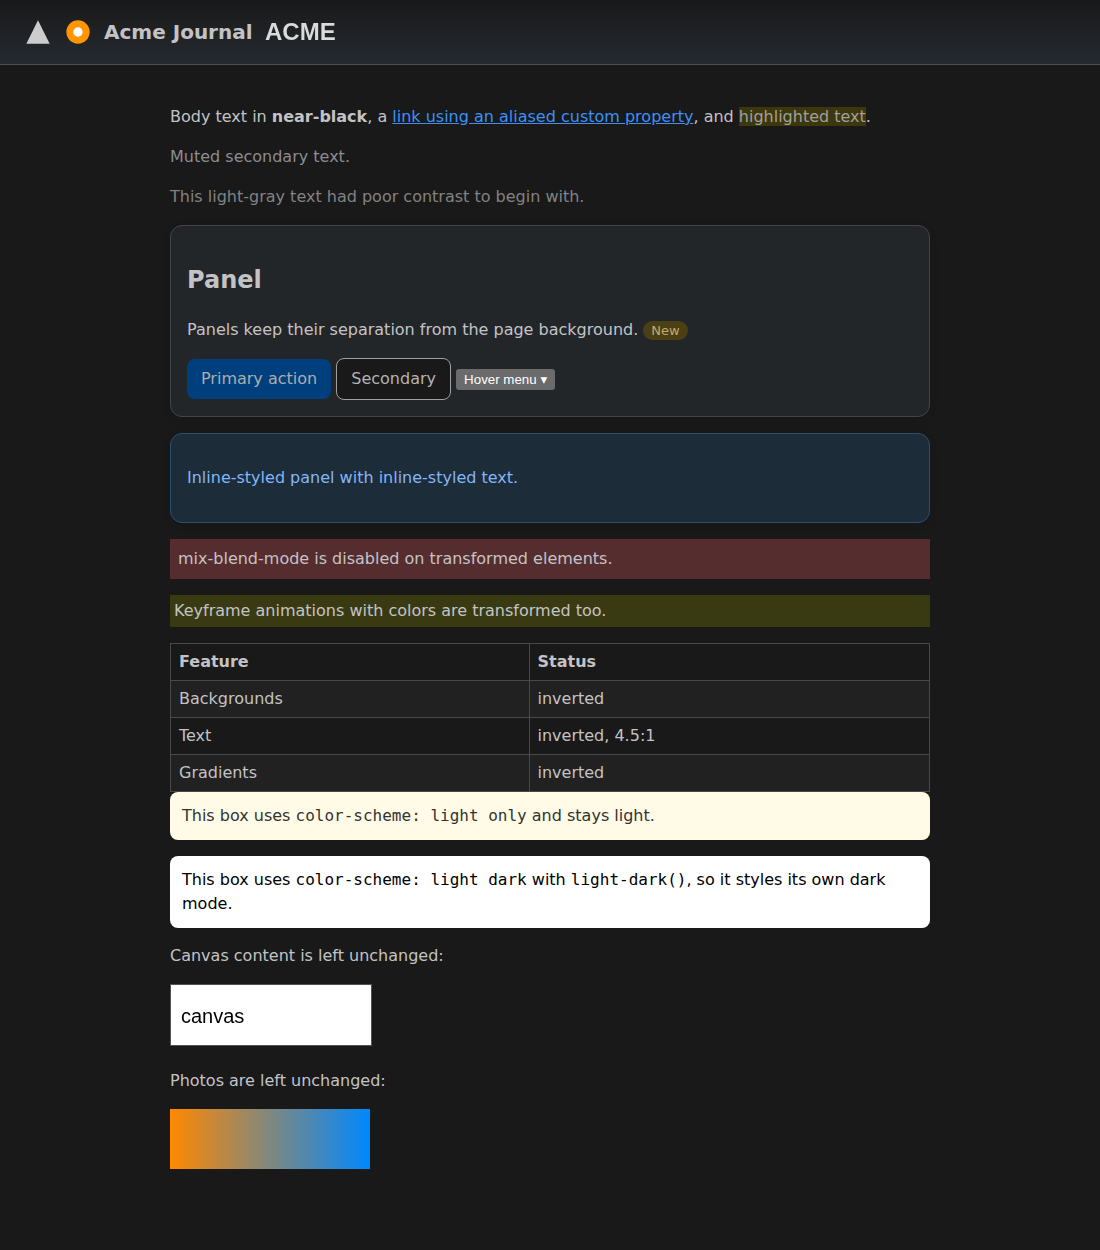
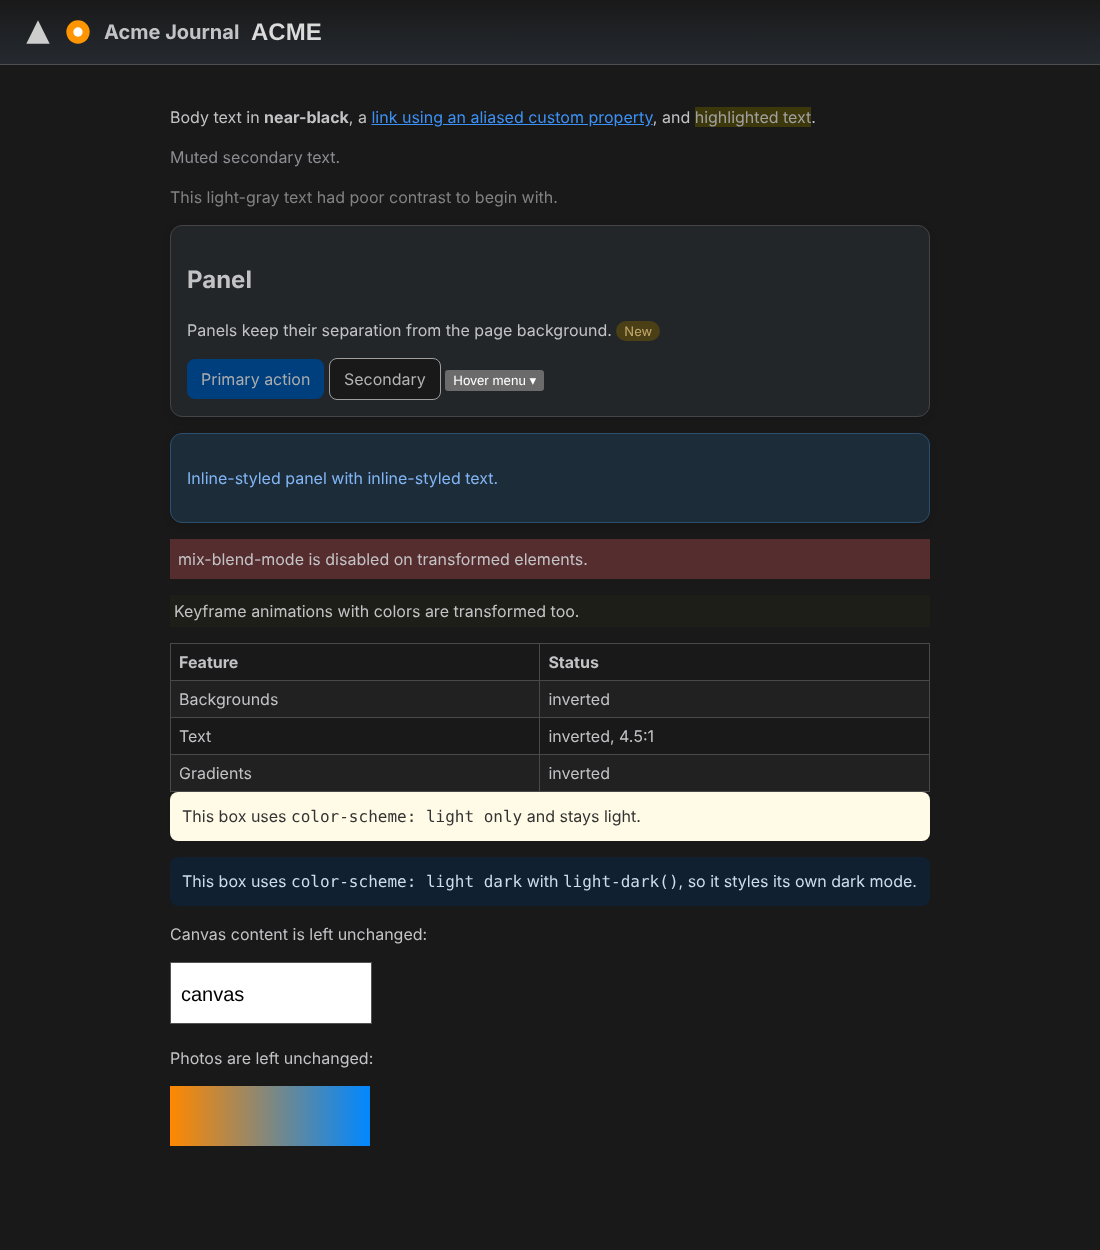
Retake README screenshots in a real dark appearance
The dark screenshot was taken with ?force in a light appearance, so the
`color-scheme: light dark` box rendered its light variant (white) on the
darkened page and looked broken. Take it with prefers-color-scheme: dark,
the only time Adaptive Dark Mode runs, where that box shows its own dark
style. Retake the light one in the same setup so fonts match, and update
the caption.

Claude-Session: https://claude.ai/code/session_01BnBTnzQPbXRcqzQATKXHTo

diff --git a/README.md b/README.md
@@ -9,7 +9,7 @@ It comes in two forms:
 
 ## Screenshots
 
-The demo page before and after Adaptive Dark Mode. The dark view uses `?force`.
+The demo page in a light appearance (left) and in a dark appearance with Adaptive Dark Mode (right).
 
 <p>
   <img src="screenshots/demo-light.png" alt="The demo page in its original light appearance" width="49%">
